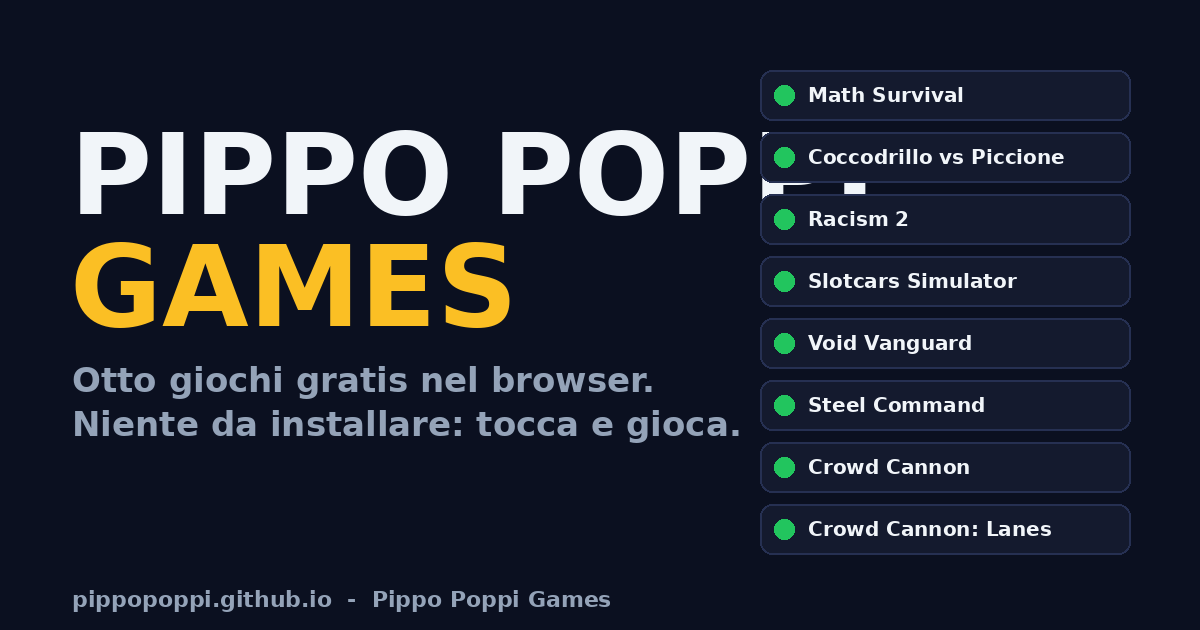
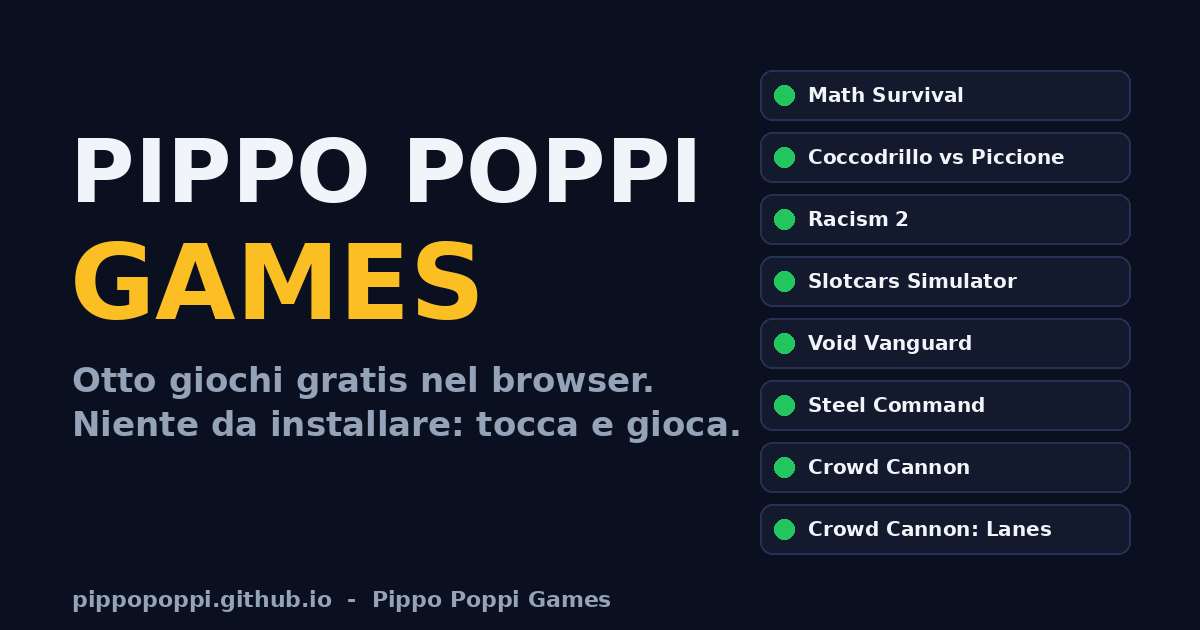
Fit the OG card title

Changed region(s): [[0.0617, 0.2111, 0.6783, 0.5429], [0.7092, 0.2714, 0.74, 0.3016]]

diff --git a/tools/make_og.py b/tools/make_og.py
@@ -10,8 +10,8 @@ def font(sz):
 BG=(11,16,32); INK=(241,245,249); MUTED=(148,163,184); AMBER=(251,191,36); GREEN=(34,197,94); PANEL=(20,26,46); LINE=(38,48,82)
 W,H=1200,630
 img=Image.new('RGB',(W,H),BG); d=ImageDraw.Draw(img)
-d.text((70,110),'PIPPO POPPI',font=font(112),fill=INK)
-d.text((70,222),'GAMES',font=font(112),fill=AMBER)
+d.text((70,120),'PIPPO POPPI',font=font(88),fill=INK)
+d.text((70,222),'GAMES',font=font(104),fill=AMBER)
 d.text((72,360),'Otto giochi gratis nel browser.',font=font(34),fill=MUTED)
 d.text((72,404),'Niente da installare: tocca e gioca.',font=font(34),fill=MUTED)
 names=['Math Survival','Coccodrillo vs Piccione','Racism 2','Slotcars Simulator','Void Vanguard','Steel Command','Crowd Cannon','Crowd Cannon: Lanes']
